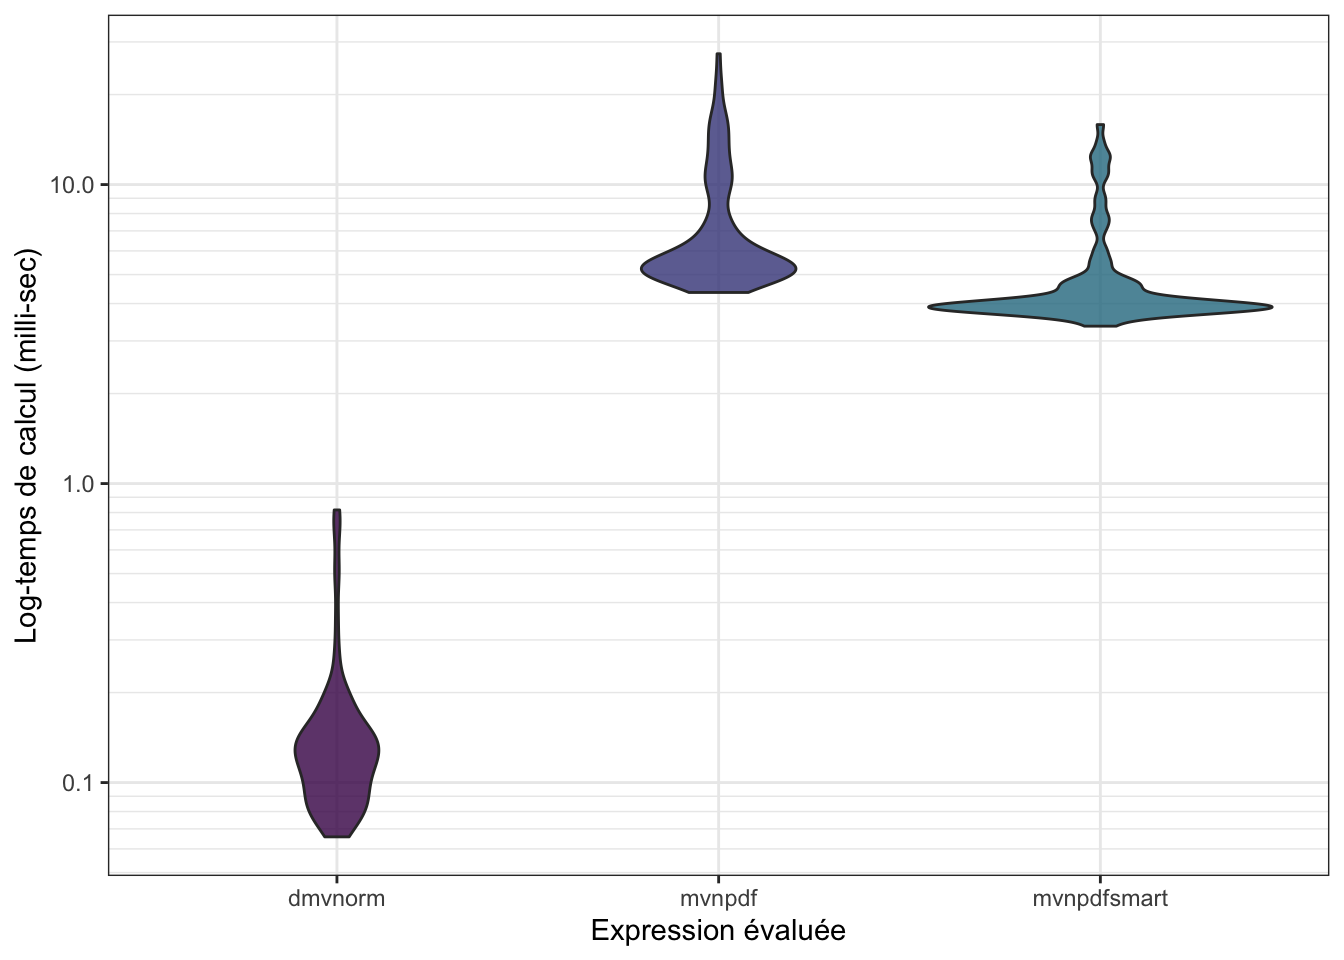
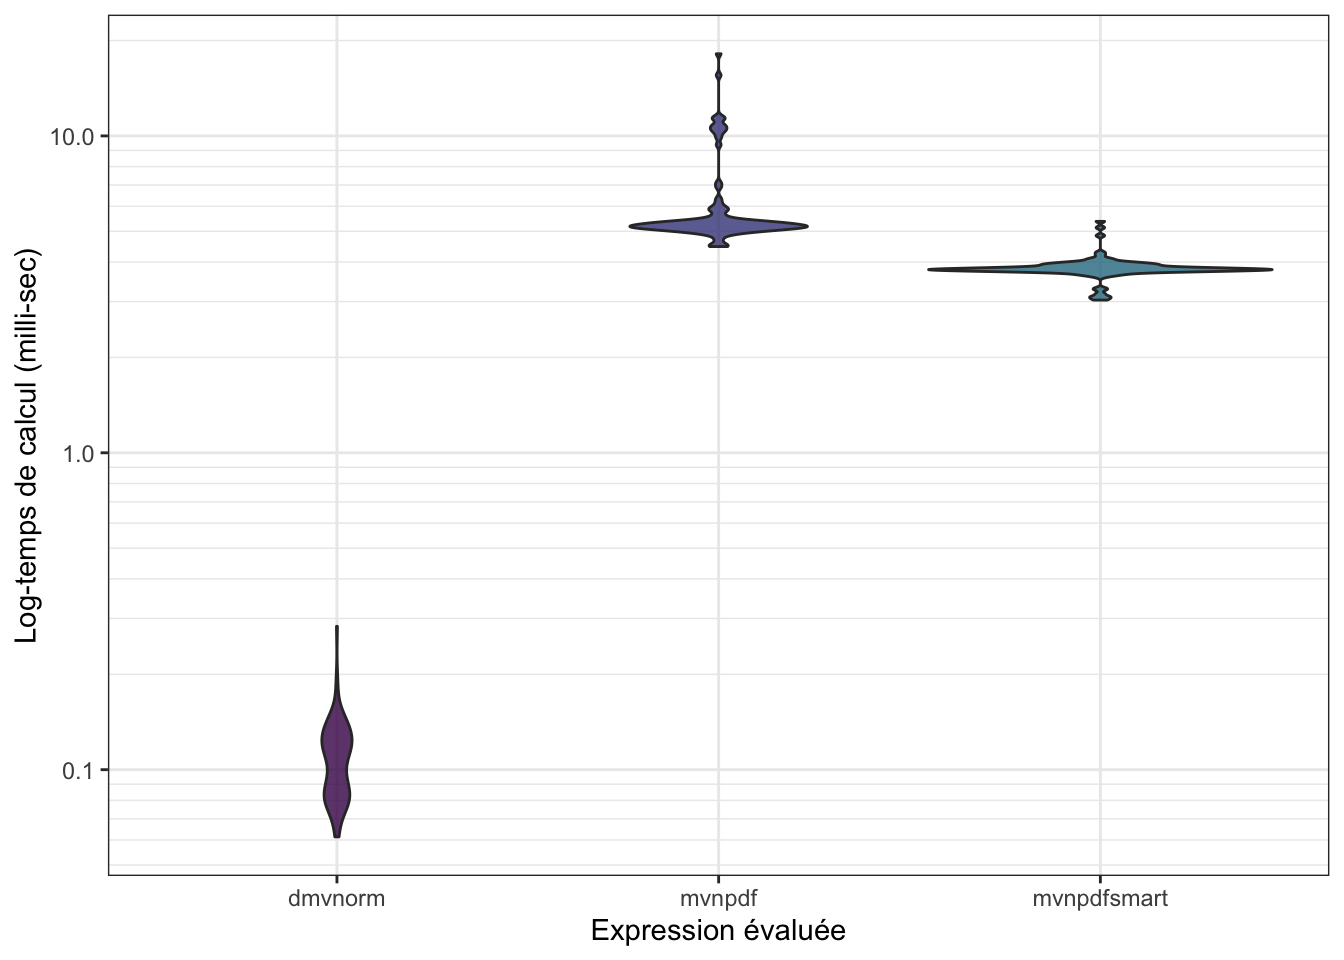
fixed and added links to sols

diff --git a/_book/profiler-son-code.html b/_book/profiler-son-code.html
@@ -262,11 +262,11 @@ fine ce qui prend du temps dans notre fonction.</p>
 <span id="cb21-5"><a href="profiler-son-code.html#cb21-5" aria-hidden="true" tabindex="-1"></a>mb</span></code></pre></div>
 <pre><code>## Unit: milliseconds
 ##                                                            expr      min
-##       mvnpdf(x = matrix(1.96, nrow = 2, ncol = n), Log = FALSE) 4.399487
-##  mvnpdfsmart(x = matrix(1.96, nrow = 2, ncol = n), Log = FALSE) 3.245338
-##        lq     mean   median       uq      max neval cld
-##  5.050434 7.934795 5.377343 7.157343 72.72614   100   b
-##  3.703267 4.317832 3.836042 3.964478 11.84162   100  a</code></pre>
+##       mvnpdf(x = matrix(1.96, nrow = 2, ncol = n), Log = FALSE) 4.574991
+##  mvnpdfsmart(x = matrix(1.96, nrow = 2, ncol = n), Log = FALSE) 3.215281
+##        lq     mean   median       uq       max neval cld
+##  5.045830 6.520134 5.250265 6.914852 27.249948   100   b
+##  3.689979 3.902544 3.787631 4.025588  6.084361   100  a</code></pre>
 <pre><code>## Warning: It is deprecated to specify `guide = FALSE` to remove a guide. Please
 ## use `guide = &quot;none&quot;` instead.</code></pre>
 <p><img src="FormationRavancee_dev_perf_files/figure-html/unnamed-chunk-20-1.png" width="672" /></p>
@@ -279,13 +279,13 @@ fine ce qui prend du temps dans notre fonction.</p>
 <span id="cb24-6"><a href="profiler-son-code.html#cb24-6" aria-hidden="true" tabindex="-1"></a>mb</span></code></pre></div>
 <pre><code>## Unit: microseconds
 ##                                                            expr      min
-##              mvtnorm::dmvnorm(matrix(1.96, nrow = n, ncol = 2))   65.825
-##       mvnpdf(x = matrix(1.96, nrow = 2, ncol = n), Log = FALSE) 4356.576
-##  mvnpdfsmart(x = matrix(1.96, nrow = 2, ncol = n), Log = FALSE) 3361.015
-##         lq      mean   median        uq       max neval cld
-##    90.5305  152.7151  123.062  150.1035   816.245   100 a  
-##  5147.1210 7558.1639 5361.229 8015.6220 27383.348   100   c
-##  3868.4955 5016.9187 3948.516 4662.1605 15871.331   100  b</code></pre>
+##              mvtnorm::dmvnorm(matrix(1.96, nrow = n, ncol = 2))   61.370
+##       mvnpdf(x = matrix(1.96, nrow = 2, ncol = n), Log = FALSE) 4475.009
+##  mvnpdfsmart(x = matrix(1.96, nrow = 2, ncol = n), Log = FALSE) 3032.901
+##         lq      mean   median       uq       max neval cld
+##    83.4275  109.4677  109.735  126.989   283.361   100 a  
+##  5100.2700 6080.4207 5228.254 5462.438 18163.540   100   c
+##  3752.4205 3821.1106 3793.256 3895.669  5374.425   100  b</code></pre>
 <pre><code>## Warning: It is deprecated to specify `guide = FALSE` to remove a guide. Please
 ## use `guide = &quot;none&quot;` instead.</code></pre>
 <p><img src="FormationRavancee_dev_perf_files/figure-html/unnamed-chunk-22-1.png" width="672" /></p>
@@ -310,15 +310,15 @@ fonction :</p>
 <span id="cb28-7"><a href="profiler-son-code.html#cb28-7" aria-hidden="true" tabindex="-1"></a>mb</span></code></pre></div>
 <pre><code>## Unit: microseconds
 ##                                                            expr      min
-##              mvtnorm::dmvnorm(matrix(1.96, nrow = n, ncol = 2))   72.809
-##       mvnpdf(x = matrix(1.96, nrow = 2, ncol = n), Log = FALSE) 4429.243
-##  mvnpdfsmart(x = matrix(1.96, nrow = 2, ncol = n), Log = FALSE) 3465.461
-##  mvnpdfoptim(x = matrix(1.96, nrow = 2, ncol = n), Log = FALSE) 2761.024
-##         lq      mean    median       uq       max neval  cld
-##    91.3825  125.5147  113.7305  137.587   595.169   100 a   
-##  5238.8885 6916.7459 5419.8630 6807.667 23945.545   100    d
-##  3887.9935 5064.2922 4070.2800 4706.861 15311.619   100   c 
-##  2926.6805 3432.5904 3032.9925 3214.467  9513.100   100  b</code></pre>
+##              mvtnorm::dmvnorm(matrix(1.96, nrow = n, ncol = 2))   67.701
+##       mvnpdf(x = matrix(1.96, nrow = 2, ncol = n), Log = FALSE) 4903.311
+##  mvnpdfsmart(x = matrix(1.96, nrow = 2, ncol = n), Log = FALSE) 3558.951
+##  mvnpdfoptim(x = matrix(1.96, nrow = 2, ncol = n), Log = FALSE) 2585.208
+##        lq      mean   median        uq       max neval  cld
+##    95.112  116.3876  113.454  130.3835   233.083   100 a   
+##  5153.353 6119.6230 5265.910 5955.0400 15294.914   100    d
+##  3791.514 3930.6124 3863.649 3944.4960  5508.697   100   c 
+##  2838.860 3077.9545 2927.133 3072.7475  8040.364   100  b</code></pre>
 <pre><code>## Warning: It is deprecated to specify `guide = FALSE` to remove a guide. Please
 ## use `guide = &quot;none&quot;` instead.</code></pre>
 <p><img src="FormationRavancee_dev_perf_files/figure-html/unnamed-chunk-25-1.png" width="672" /></p>

diff --git a/_book/mesurer-et-comparer-des-temps-dexécution.html b/_book/mesurer-et-comparer-des-temps-dexécution.html
@@ -240,7 +240,7 @@ afin de pouvoir comparer les temps d’exécution entre différente implémentat
 fonction <code>system.time()</code> comme ceci :</p>
 <div class="sourceCode" id="cb9"><pre class="sourceCode r"><code class="sourceCode r"><span id="cb9-1"><a href="mesurer-et-comparer-des-temps-dexécution.html#cb9-1" aria-hidden="true" tabindex="-1"></a><span class="fu">system.time</span>(<span class="fu">mvnpdf</span>(<span class="at">x=</span><span class="fu">matrix</span>(<span class="fu">rep</span>(<span class="fl">1.96</span>, <span class="dv">2</span>), <span class="at">nrow=</span><span class="dv">2</span>, <span class="at">ncol=</span><span class="dv">1</span>), <span class="at">Log=</span><span class="cn">FALSE</span>))</span></code></pre></div>
 <pre><code>## utilisateur     système      écoulé 
-##       0.002       0.001       0.004</code></pre>
+##       0.001       0.001       0.003</code></pre>
 <p>Le problème qui apparaît sur cet exemple est que l’exécution est tellement
 rapide que <code>system.time()</code> affiche <code>0</code> (ou une valeur très proche).
 De plus, on voit qu’il y a une certaine variabilité quand on relance plusieurs
@@ -249,7 +249,7 @@ fois la commande.</p>
 on ne peut pas utiliser <code>system.time()</code> :</p>
 <div class="sourceCode" id="cb11"><pre class="sourceCode r"><code class="sourceCode r"><span id="cb11-1"><a href="mesurer-et-comparer-des-temps-dexécution.html#cb11-1" aria-hidden="true" tabindex="-1"></a><span class="fu">system.time</span>(mvtnorm<span class="sc">::</span><span class="fu">dmvnorm</span>(<span class="fu">rep</span>(<span class="fl">1.96</span>, <span class="dv">2</span>)))</span></code></pre></div>
 <pre><code>## utilisateur     système      écoulé 
-##       0.013       0.009       0.029</code></pre>
+##       0.005       0.003       0.012</code></pre>
 <p>On pourrait se dire qu’il faut augmenter la complexité de notre calcul, mais
 il y a mieux : utiliser le package <code>microbenchmark</code> !</p>
 </div>
@@ -265,12 +265,12 @@ commandes et donc va stabiliser le résultat.</p>
 <span id="cb13-4"><a href="mesurer-et-comparer-des-temps-dexécution.html#cb13-4" aria-hidden="true" tabindex="-1"></a>                     <span class="at">times=</span>1000L)</span>
 <span id="cb13-5"><a href="mesurer-et-comparer-des-temps-dexécution.html#cb13-5" aria-hidden="true" tabindex="-1"></a>mb</span></code></pre></div>
 <pre><code>## Unit: microseconds
-##                                           expr    min      lq     mean  median
-##                 mvtnorm::dmvnorm(rep(1.96, 2)) 54.789 80.2935 150.3612 104.822
-##  mvnpdf(x = matrix(rep(1.96, 2)), Log = FALSE) 52.438 72.9730 139.8045  94.449
-##        uq      max neval cld
-##  164.2215 1178.559  1000   a
-##  146.7355 6215.688  1000   a</code></pre>
+##                                           expr    min      lq     mean median
+##                 mvtnorm::dmvnorm(rep(1.96, 2)) 37.750 51.3115 64.75459 59.857
+##  mvnpdf(x = matrix(rep(1.96, 2)), Log = FALSE) 35.157 47.8725 58.09040 55.484
+##       uq      max neval cld
+##  69.9570 1976.137  1000   b
+##  64.5885  328.314  1000  a</code></pre>
 <pre><code>## Warning: It is deprecated to specify `guide = FALSE` to remove a guide. Please
 ## use `guide = &quot;none&quot;` instead.</code></pre>
 <p><img src="FormationRavancee_dev_perf_files/figure-html/unnamed-chunk-13-1.png" width="672" /></p>
@@ -284,11 +284,11 @@ cas :</p>
 <span id="cb16-5"><a href="mesurer-et-comparer-des-temps-dexécution.html#cb16-5" aria-hidden="true" tabindex="-1"></a>mb</span></code></pre></div>
 <pre><code>## Unit: microseconds
 ##                                                       expr     min       lq
-##         mvtnorm::dmvnorm(matrix(1.96, nrow = n, ncol = 2))  46.497  53.0320
-##  mvnpdf(x = matrix(1.96, nrow = 2, ncol = n), Log = FALSE) 471.192 480.3515
+##         mvtnorm::dmvnorm(matrix(1.96, nrow = n, ncol = 2))  47.397  53.5815
+##  mvnpdf(x = matrix(1.96, nrow = 2, ncol = n), Log = FALSE) 467.245 488.0235
 ##       mean   median       uq     max neval cld
-##   58.84541  56.6915  62.7585 120.784   100  a 
-##  521.10634 517.4710 561.4085 618.478   100   b</code></pre>
+##   62.35459  58.2305  65.7645 126.896   100  a 
+##  528.55179 520.8260 547.6590 743.017   100   b</code></pre>
 <pre><code>## Warning: It is deprecated to specify `guide = FALSE` to remove a guide. Please
 ## use `guide = &quot;none&quot;` instead.</code></pre>
 <p><img src="FormationRavancee_dev_perf_files/figure-html/unnamed-chunk-15-1.png" width="672" /></p>

diff --git a/_book/rcpp-ou-comment-intégrer-facilement-du-code-cdans-un-package-r.html b/_book/rcpp-ou-comment-intégrer-facilement-du-code-cdans-un-package-r.html
@@ -296,17 +296,17 @@ l’utiliser.</p></li>
 <span id="cb34-8"><a href="rcpp-ou-comment-intégrer-facilement-du-code-cdans-un-package-r.html#cb34-8" aria-hidden="true" tabindex="-1"></a>mb</span></code></pre></div>
 <pre><code>## Unit: microseconds
 ##                                                            expr      min
-##              mvtnorm::dmvnorm(matrix(1.96, nrow = n, ncol = 2))   74.150
-##       mvnpdf(x = matrix(1.96, nrow = 2, ncol = n), Log = FALSE) 4937.325
-##  mvnpdfsmart(x = matrix(1.96, nrow = 2, ncol = n), Log = FALSE) 3797.359
-##  mvnpdfoptim(x = matrix(1.96, nrow = 2, ncol = n), Log = FALSE) 2767.860
-##  mvnpdf_invC(x = matrix(1.96, nrow = 2, ncol = n), Log = FALSE) 3822.393
-##         lq      mean   median       uq       max neval  cld
-##   105.6465  148.3002  124.749  152.035   849.552   100 a   
-##  5460.6455 7791.0996 5909.471 7063.025 38647.222   100    d
-##  4036.4730 5580.8977 4385.708 5435.118 22622.500   100   c 
-##  3098.3945 4077.0568 3217.636 3615.547 11696.070   100  b  
-##  4009.2495 5643.4492 4236.820 5201.603 20768.013   100   c</code></pre>
+##              mvtnorm::dmvnorm(matrix(1.96, nrow = n, ncol = 2))   68.517
+##       mvnpdf(x = matrix(1.96, nrow = 2, ncol = n), Log = FALSE) 4419.739
+##  mvnpdfsmart(x = matrix(1.96, nrow = 2, ncol = n), Log = FALSE) 3209.040
+##  mvnpdfoptim(x = matrix(1.96, nrow = 2, ncol = n), Log = FALSE) 2382.014
+##  mvnpdf_invC(x = matrix(1.96, nrow = 2, ncol = n), Log = FALSE) 3162.984
+##         lq      mean    median        uq       max neval  cld
+##    91.5645  115.5275  106.4035  129.3455   302.295   100 a   
+##  4995.7835 6147.9918 5262.2960 6192.1585 40398.531   100    d
+##  3736.1860 4166.4915 3830.9750 3993.4030 11950.145   100   c 
+##  2775.2390 3297.4240 2893.3840 3120.9850 13061.894   100  b  
+##  3694.0100 4009.3123 3806.1785 4003.8185 12579.719   100  bc</code></pre>
 <pre><code>## Warning: It is deprecated to specify `guide = FALSE` to remove a guide. Please
 ## use `guide = &quot;none&quot;` instead.</code></pre>
 <p><img src="FormationRavancee_dev_perf_files/figure-html/unnamed-chunk-31-1.png" width="672" /></p>
@@ -347,13 +347,13 @@ de densité de la loi Normale multivariée <code>mvnpdfC()</code>.</p></li>
 ##                                        mvnpdfoptim(x = matrix(1.96, nrow = 2, ncol = n), Log = FALSE)
 ##                                        mvnpdf_invC(x = matrix(1.96, nrow = 2, ncol = n), Log = FALSE)
 ##  mvnpdfC(x = matrix(1.96, nrow = 2, ncol = n), mean = rep(0, 2),      varcovM = diag(2), Log = FALSE)
-##       min       lq      mean    median        uq       max neval  cld
-##    78.502  110.147  162.8588  129.2745  166.9720  1326.424   100 a   
-##  4349.642 5237.285 6894.7286 5684.0770 7080.4950 17495.354   100    d
-##  3267.945 3889.440 4916.6477 3986.7085 4849.4950 12955.427   100   c 
-##  2752.625 2949.572 3920.6540 3131.7180 3778.0510 15523.654   100  b  
-##  3245.512 3858.322 5069.4223 4134.8735 5137.1250 18916.846   100   c 
-##    54.569   63.805  116.2211   75.5465   89.4385  3560.526   100 a</code></pre>
+##       min        lq       mean    median        uq       max neval  cld
+##    65.200   87.6125  118.42410  114.3435  132.1080   276.825   100 a   
+##  4256.344 5022.3770 5488.65172 5252.2720 5485.4330 17245.800   100    d
+##  3065.346 3679.3920 3972.78843 3790.4555 3915.7080 10156.814   100   c 
+##  2377.090 2820.8755 3073.45270 2899.1050 3015.1125 12680.455   100  b  
+##  3027.314 3688.1245 4042.17264 3816.0435 3917.9465 11640.784   100   c 
+##    50.400   67.3050   86.96821   73.1935   80.2895  1228.500   100 a</code></pre>
 <pre><code>## Warning: It is deprecated to specify `guide = FALSE` to remove a guide. Please
 ## use `guide = &quot;none&quot;` instead.</code></pre>
 <p><img src="FormationRavancee_dev_perf_files/figure-html/unnamed-chunk-34-1.png" width="672" /></p>

diff --git a/_book/parallélisation-du-code-r.html b/_book/parallélisation-du-code-r.html
@@ -347,7 +347,7 @@ médiane pour chacune de ces variables.</p>
 <span id="cb44-3"><a href="parallélisation-du-code-r.html#cb44-3" aria-hidden="true" tabindex="-1"></a>}</span>
 <span id="cb44-4"><a href="parallélisation-du-code-r.html#cb44-4" aria-hidden="true" tabindex="-1"></a><span class="fu">system.time</span>(<span class="fu">colmedian_apply</span>(x))</span></code></pre></div>
 <pre><code>## utilisateur     système      écoulé 
-##       3.116       0.016       3.147</code></pre>
+##       3.718       0.158       4.058</code></pre>
 <p>En réalité, une boucle <code>for</code> n’est pas plus lente à condition d’être bien
 programmée :</p>
 <div class="sourceCode" id="cb46"><pre class="sourceCode r"><code class="sourceCode r"><span id="cb46-1"><a href="parallélisation-du-code-r.html#cb46-1" aria-hidden="true" tabindex="-1"></a>colmedian_for <span class="ot">&lt;-</span> <span class="cf">function</span>(x){</span>
@@ -359,7 +359,7 @@ programmée :</p>
 <span id="cb46-7"><a href="parallélisation-du-code-r.html#cb46-7" aria-hidden="true" tabindex="-1"></a>}</span>
 <span id="cb46-8"><a href="parallélisation-du-code-r.html#cb46-8" aria-hidden="true" tabindex="-1"></a><span class="fu">system.time</span>(<span class="fu">colmedian_for</span>(x))</span></code></pre></div>
 <pre><code>## utilisateur     système      écoulé 
-##       4.198       0.033       4.273</code></pre>
+##       3.319       0.055       3.435</code></pre>
 <blockquote>
 <p><strong><em>À vous de jouer !</em></strong><br />
 Essayez d’améliorer encore ce temps de calcul en parallélisant :</p>
@@ -475,6 +475,7 @@ une implémentation parallélisant les calculs sur les observations (colonnes de
 ##  23056.564 25062.957 42489.4763 25778.1410 27263.3515 351280.603    20   b
 ##  21397.044 24601.644 25259.4758 25393.3370 26400.7515  27887.129    20  ab</code></pre>
 <p><img src="FormationRavancee_dev_perf_files/figure-html/unnamed-chunk-45-1.png" width="672" /></p>
+<p>Notre proposition d’implementation pour <code>mvnpdfoptim_par</code> est téléchargeable <a href="https://r-dev-perf.borishejblum.science/FormationRavancee_dev_perf_files/mvnpdfoptim_par.R">ici</a>.</p>
 </div>
 <div id="conclusion" class="section level2 hasAnchor" number="6.5">
 <h2><span class="header-section-number">6.5</span> Conclusion<a href="parallélisation-du-code-r.html#conclusion" class="anchor-section" aria-label="Anchor link to header"></a></h2>
